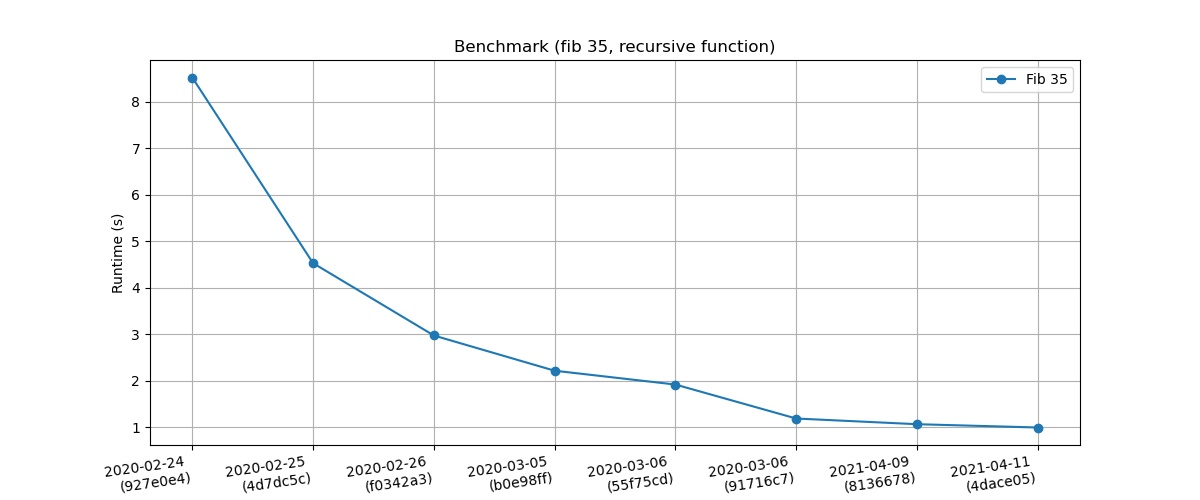
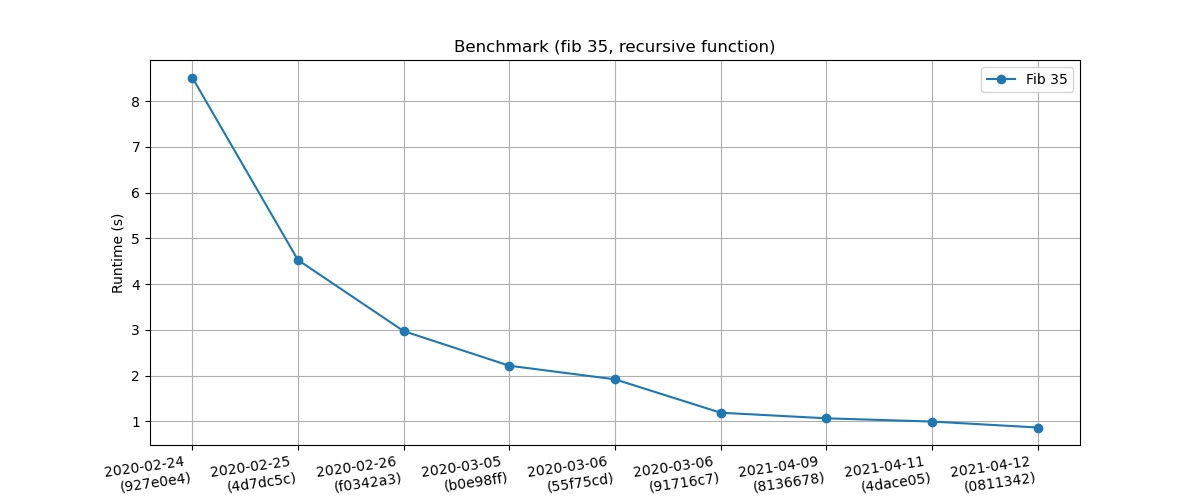
minor performance squueze by using macros for stack pop and push

diff --git a/src/vm.c b/src/vm.c
@@ -81,7 +81,7 @@ void vm_free(struct vm *vm) {
 #define vm_stack_pop(vm) (vm->stack[--vm->stack_pointer])
 #define vm_stack_push(vm, obj) (vm->stack[vm->stack_pointer++] = obj)
 #else 
-static inline 
+static 
 struct object vm_stack_pop(struct vm *vm) {
     if (vm->stack_pointer == 0) {
         return obj_null;
@@ -90,7 +90,7 @@ struct object vm_stack_pop(struct vm *vm) {
     return vm->stack[--vm->stack_pointer];
 }
 
-static inline 
+static 
 void vm_stack_push(struct vm *vm, struct object obj) {
     if (vm->stack_pointer >= STACK_SIZE) {
         err(VM_ERR_STACK_OVERFLOW, "stack overflow");
@@ -101,8 +101,7 @@ void vm_stack_push(struct vm *vm, struct object obj) {
 }
 #endif
 
-static
-enum result
+static void 
 vm_do_binary_integer_operation(struct vm *vm, enum opcode opcode, int64_t left, int64_t right) {
     int64_t result;
     
@@ -120,7 +119,7 @@ vm_do_binary_integer_operation(struct vm *vm, enum opcode opcode, int64_t left, 
             result = left / right;
         break;
         default:
-            return VM_ERR_INVALID_INT_OPERATOR;
+            err(VM_ERR_INVALID_INT_OPERATOR, "Invalid operator for integer operation.");
         break;
     }
 
@@ -129,11 +128,10 @@ vm_do_binary_integer_operation(struct vm *vm, enum opcode opcode, int64_t left, 
         .value = { .integer = result }
     };
     vm_stack_push(vm, obj);
-    return VM_SUCCESS;
 }
 
-static
-enum result vm_do_binary_string_operation(struct vm *vm, enum opcode opcode, char *left, char *right) {
+static void 
+vm_do_binary_string_operation(struct vm *vm, enum opcode opcode, char *left, char *right) {
     struct object obj = {
         .type = OBJ_STRING,
     };
@@ -146,24 +144,29 @@ enum result vm_do_binary_string_operation(struct vm *vm, enum opcode opcode, cha
     strcpy(obj.value.string, left);
     strcat(obj.value.string, right);
     vm_stack_push(vm, obj);
-    return VM_SUCCESS;
 }
 
-static
-enum result vm_do_binary_operation(struct vm *vm, enum opcode opcode) {
+static void 
+vm_do_binary_operation(struct vm *vm, enum opcode opcode) {
     struct object right = vm_stack_pop(vm);
     struct object left = vm_stack_pop(vm);
     assert(left.type == right.type);
 
     switch (left.type) {
-        case OBJ_INT: return vm_do_binary_integer_operation(vm, opcode, left.value.integer, right.value.integer);
-        case OBJ_STRING: return vm_do_binary_string_operation(vm, opcode, left.value.string, right.value.string);
-        default: return VM_ERR_INVALID_OP_TYPE;
+        case OBJ_INT: 
+            return vm_do_binary_integer_operation(vm, opcode, left.value.integer, right.value.integer); 
+        break;
+        case OBJ_STRING: 
+            return vm_do_binary_string_operation(vm, opcode, left.value.string, right.value.string); 
+        break;
+        default: 
+            err(VM_ERR_INVALID_OP_TYPE, "Invalid type for binary operation.");
+        break;
     }
 }
 
-static
-enum result vm_do_integer_comparison(struct vm *vm, enum opcode opcode, int64_t left, int64_t right) { 
+static void 
+vm_do_integer_comparison(struct vm *vm, enum opcode opcode, int64_t left, int64_t right) { 
     bool result;
     
     switch (opcode) {
@@ -184,16 +187,17 @@ enum result vm_do_integer_comparison(struct vm *vm, enum opcode opcode, int64_t 
             break;
 
         default: 
-            return VM_ERR_INVALID_OP_TYPE;
+            err(VM_ERR_INVALID_OP_TYPE, "Invalid operator for integer comparison");
         break;
     }
-
-    vm_stack_push(vm, result ? obj_true : obj_false);
-    return VM_SUCCESS;
+    
+    struct object obj;
+    obj.type = OBJ_BOOL;
+    obj.value.boolean = result;
+    vm_stack_push(vm, obj);
 }
 
-static 
-enum result 
+static void
 vm_do_bool_comparison(struct vm *vm, enum opcode opcode, bool left, bool right) {
     bool result;
     switch (opcode) {
@@ -206,16 +210,17 @@ vm_do_bool_comparison(struct vm *vm, enum opcode opcode, bool left, bool right) 
         break;
 
         default: 
-            return VM_ERR_INVALID_OP_TYPE;
+            err(VM_ERR_INVALID_OP_TYPE, "Invalid operator for boolean comparison.");
         break;
     }    
 
-    vm_stack_push(vm, result ? obj_true : obj_false);
-    return VM_SUCCESS;
+    struct object obj;
+    obj.type = OBJ_BOOL;
+    obj.value.boolean = result;
+    vm_stack_push(vm, obj);
 }
 
-static 
-enum result
+static void 
 vm_do_comparision(struct vm *vm, enum opcode opcode) {
     struct object right = vm_stack_pop(vm);
     struct object left = vm_stack_pop(vm);
@@ -232,43 +237,32 @@ vm_do_comparision(struct vm *vm, enum opcode opcode) {
         break;
 
         default:
-            return VM_ERR_INVALID_OP_TYPE;
+            err(VM_ERR_INVALID_OP_TYPE, "Invalid type for comparison.");
         break;
     }   
 }
 
-static 
-enum result 
+static void
 vm_do_bang_operation(struct vm *vm) {
     struct object obj = vm_stack_pop(vm);
-    vm_stack_push(vm, obj.type == OBJ_NULL || (obj.type == OBJ_BOOL && obj.value.boolean == false) ? obj_true : obj_false);
-    return VM_SUCCESS;
+    obj.value.boolean = obj.type == OBJ_NULL || (obj.type == OBJ_BOOL && obj.value.boolean == false) || (obj.type == OBJ_INT && obj.value.integer <= 0);
+    obj.type = OBJ_BOOL;
+    vm_stack_push(vm, obj);
 }
 
-static 
-enum result 
+static void  
 vm_do_minus_operation(struct vm *vm) {
     struct object obj = vm_stack_pop(vm);
     assert(obj.type == OBJ_INT);
     obj.value.integer = -obj.value.integer;
     vm_stack_push(vm, obj);
-    return VM_SUCCESS;
 }
 
-static inline void 
-vm_pop_frame(struct vm* vm) {
-    vm->frame_index--;
-}
-
-static inline 
-struct frame*
-vm_current_frame(struct vm* vm) {
-    return &vm->frames[vm->frame_index];
-}
+#define vm_pop_frame(vm) vm->frame_index--;
+#define vm_current_frame(vm) &vm->frames[vm->frame_index];
 
 /* handle call to built-in function */
-static 
-enum result 
+static void 
 vm_do_call_builtin(struct vm *vm, struct object *(*builtin)(struct object_list *),  uint8_t num_args) {
     // create object list with arguments
     struct object_list *args = make_object_list(num_args);
@@ -279,16 +273,14 @@ vm_do_call_builtin(struct vm *vm, struct object *(*builtin)(struct object_list *
     struct object *result = builtin(args);
     vm->stack_pointer = vm->stack_pointer - num_args - 1;
     vm_stack_push(vm, *result);
-    vm_current_frame(vm)->ip++;
+    vm->frames[vm->frame_index].ip++;
 
     free_object_shallow(result);
     free_object_list_shallow(args);
-    return VM_SUCCESS;
 }
 
 /* handle call to user-defined function */
-static 
-enum result 
+static void 
 vm_do_call_function(struct vm *vm, struct compiled_function *f, uint8_t num_args) {
     /* TODO: Validate number of arguments */
 
@@ -299,11 +291,9 @@ vm_do_call_function(struct vm *vm, struct compiled_function *f, uint8_t num_args
     vm->frames[vm->frame_index].fn = f;
     vm->frames[vm->frame_index].base_pointer = vm->stack_pointer - num_args;
     vm->stack_pointer = vm->frames[vm->frame_index].base_pointer + f->num_locals; 
-    return VM_SUCCESS; 
 }
 
-static 
-enum result 
+static void
 vm_do_call(struct vm *vm, uint8_t num_args) {
     struct object callee = vm->stack[vm->stack_pointer - 1 - num_args];
     switch (callee.type) {
@@ -316,7 +306,7 @@ vm_do_call(struct vm *vm, uint8_t num_args) {
         break;
 
         default:
-            return VM_ERR_INVALID_FUNCTION_CALL;
+            err(VM_ERR_INVALID_FUNCTION_CALL, "Invalid function call.");
         break;
     }
 }
@@ -456,7 +446,7 @@ vm_run(struct vm *vm) {
     // intitial dispatch
     DISPATCH();
 
-    // loads a constant on the stack
+    // pushes a constant on the stack
     GOTO_OPCODE_CONST: {
         uint16_t idx = read_uint16((frame->ip + 1));
         frame->ip += 3;
@@ -473,8 +463,8 @@ vm_run(struct vm *vm) {
 
     // call a (user-defined or built-in) function
     GOTO_OPCODE_CALL: {
-        uint8_t num_args = read_uint8((frame->ip + 1));
         frame->ip++;
+        uint8_t num_args = read_uint8((frame->ip));
         vm_do_call(vm, num_args);
         reload_loop_variables();
         DISPATCH();
@@ -548,8 +538,7 @@ vm_run(struct vm *vm) {
     GOTO_OPCODE_SUBTRACT:
     GOTO_OPCODE_MULTIPLY:
     GOTO_OPCODE_DIVIDE: {
-        enum result err = vm_do_binary_operation(vm, *frame->ip);
-        if (err) return err;
+        vm_do_binary_operation(vm, *frame->ip);
         frame->ip++;
         DISPATCH();
     }
@@ -561,8 +550,7 @@ vm_run(struct vm *vm) {
     }
 
     GOTO_OPCODE_MINUS: {
-        enum result err = vm_do_minus_operation(vm);
-        if (err) return err;
+        vm_do_minus_operation(vm);
         frame->ip++;
         DISPATCH();
     }
@@ -571,8 +559,7 @@ vm_run(struct vm *vm) {
     GOTO_OPCODE_NOT_EQUAL: 
     GOTO_OPCODE_GREATER_THAN: 
     GOTO_OPCODE_LESS_THAN: {
-        enum result err = vm_do_comparision(vm, *frame->ip);
-        if (err) return err;
+        vm_do_comparision(vm, *frame->ip);
         frame->ip++;
         DISPATCH();
     }

diff --git a/README.md b/README.md
@@ -83,7 +83,7 @@ For fun, I ran the same algorithm expressed in some other interpreted languages 
 | PHP 8.0            	    | 0.48 	|
 | Lua 5.4            	    | 0.72 	|
 | Ruby 2.7           	    | 0.80 	|
-| **Monkey-C-Monkey-Do**    | **0.98**	|
+| **Monkey-C-Monkey-Do**    | **0.86**	|
 | Python 3.9         	    | 1.91 	|
 | PHP 5.6				    | 2.72  |
 
